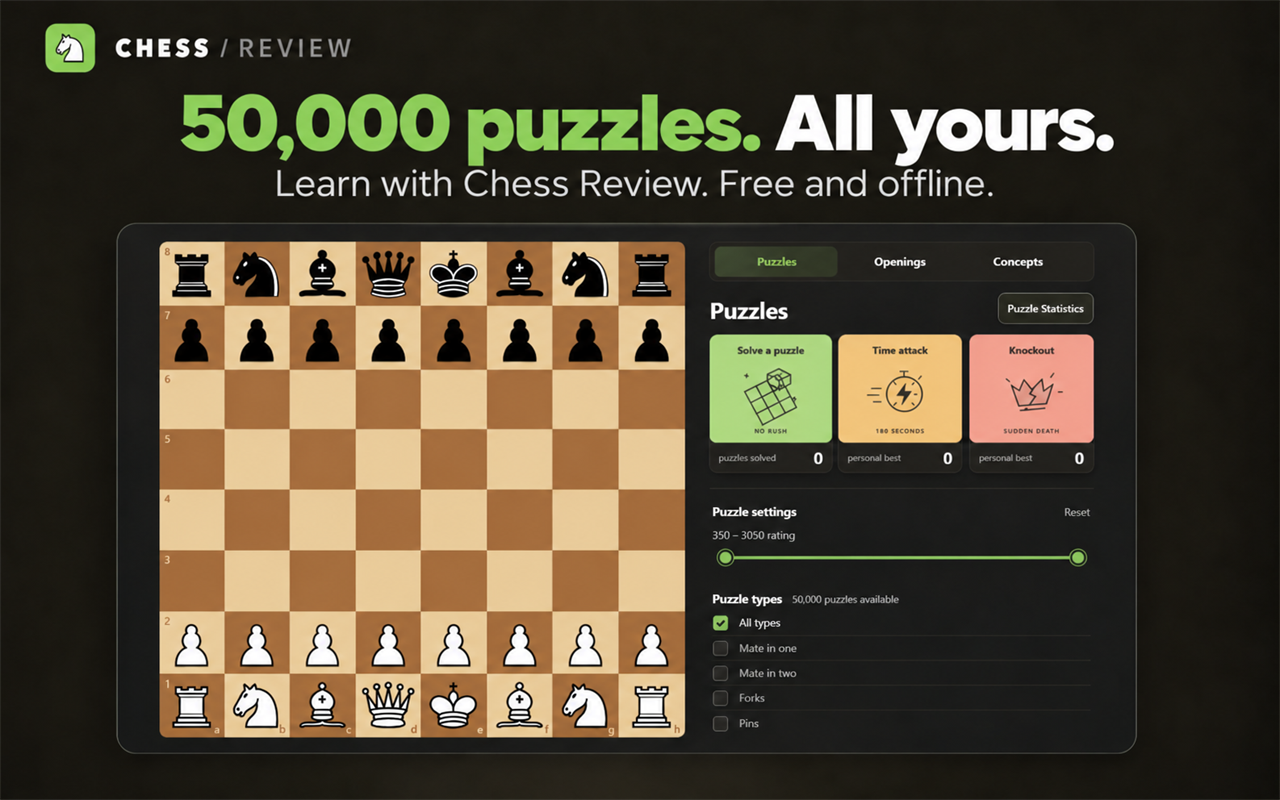
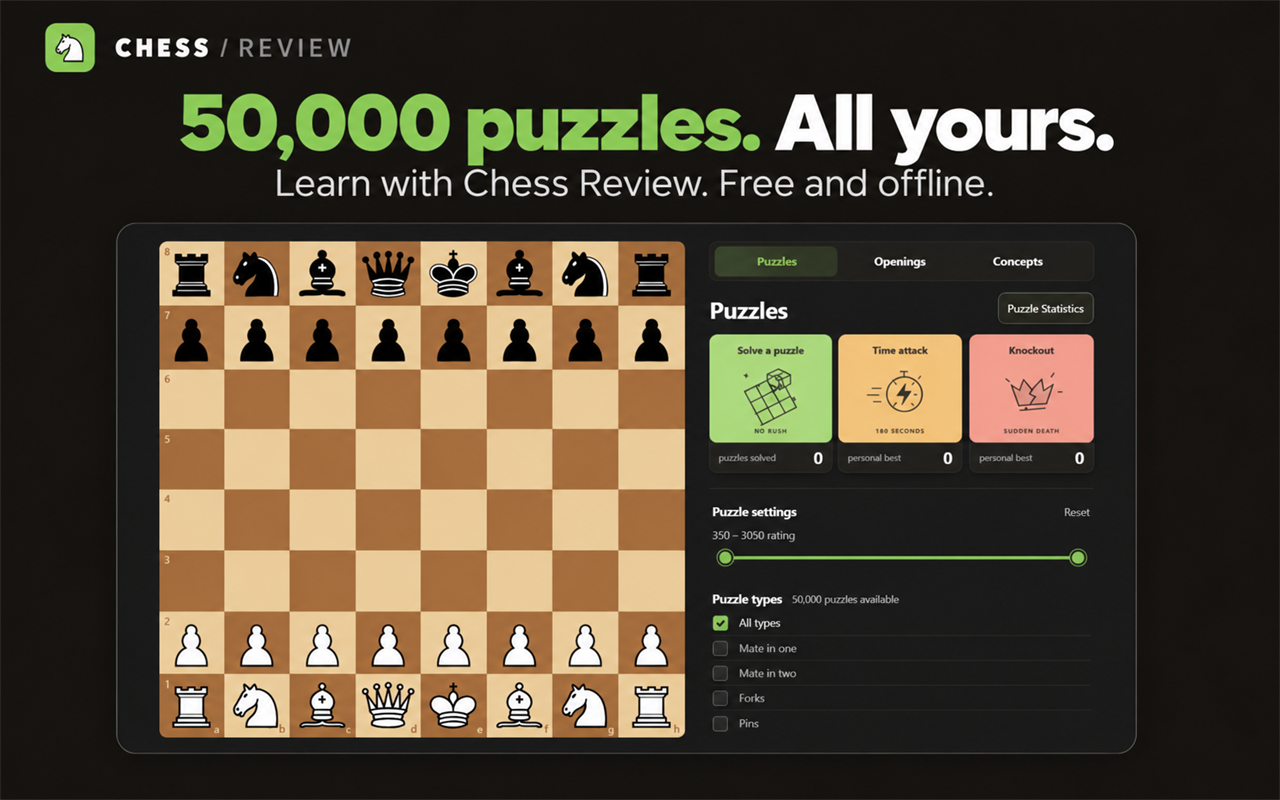
marketing: match puzzle promo background to existing campaign
Darken the outer background and reduce its brown glow while preserving the centered text and product layout.

diff --git a/marketing/PUZZLE_CANDIDATES.md b/marketing/PUZZLE_CANDIDATES.md
@@ -19,6 +19,16 @@ Headline exact text: "50,000 puzzles. All yours." Keep it on ONE line, same bold
 Subtitle exact text: "Learn with Chess Review. Free and offline." Keep on ONE line, same light gray font, same size, same vertical position around y171-195. The subtitle's own horizontal center must independently be x640, with balanced left/right margins (about220px each for its current width).
 Keep the CHESS / REVIEW logo at the TOP LEFT exactly where it is. Do not center the logo. Keep all elements BELOW y215 unchanged: the entire rounded product frame, board, all 32 chess pieces including white knight on g1, puzzle UI, UI words, controls, colors, shadows, spacing and background. No redesign, no new text, no removal of elements. The only change is moving the two marketing text lines rightwards to center each independently over the existing product frame. Preserve the 1280x800 canvas and all copy.
 
+### Background match revision
+
+Darkened the outer background and reduced its brown glow to better match `chrome-web-store/1 (1).png`. The centered headline, subtitle, logo and product layout are retained. Edited using the built-in imagegen tool.
+
+#### Background edit prompt
+
+Use case: precise-object-edit. Input image 1 is the EDIT TARGET: the centered "50,000 puzzles. All yours." marketing image. Input image 2 is a BACKGROUND COLOR REFERENCE ONLY: the matching existing Chess Review campaign image.
+Change ONLY the outer canvas BACKGROUND of image1 to match the dark background of image2. The reference background is a very dark, almost uniform warm charcoal, approximately RGB(23,21,18), HEX #171512, with only extremely faint fine texture. It does NOT have the pronounced mottled golden/brown haze, bright sepia glow behind the product, or lighter tan patches currently visible in image1. Especially darken the bright brown background area beneath the product frame, making it match the reference. Use the reference's restrained near-black background consistently around the entire canvas. This must be a perceptible darkening and reduction of the golden-brown cast, bringing it into the same series as image2.
+Preserve EVERYTHING ELSE from image1: the exact centered headline and subtitle positions and sizes; green "50,000 puzzles." and off-white "All yours."; subtitle "Learn with Chess Review. Free and offline."; top-left knight logo and CHESS / REVIEW wordmark; the entire product screenshot and rounded product frame including its location, borders, puzzle mode cards, filters, text, all 64 chessboard squares and all 32 pieces including the white knight on g1. Do not darken the board, interface, lettering or logo; only the OUTSIDE canvas background. Do not copy content from image2. No new text, no rearrangement, no crop, no extra objects. Same 1280x800 landscape composition.
+
 ## Generation prompts
 
 ### Candidate 1
